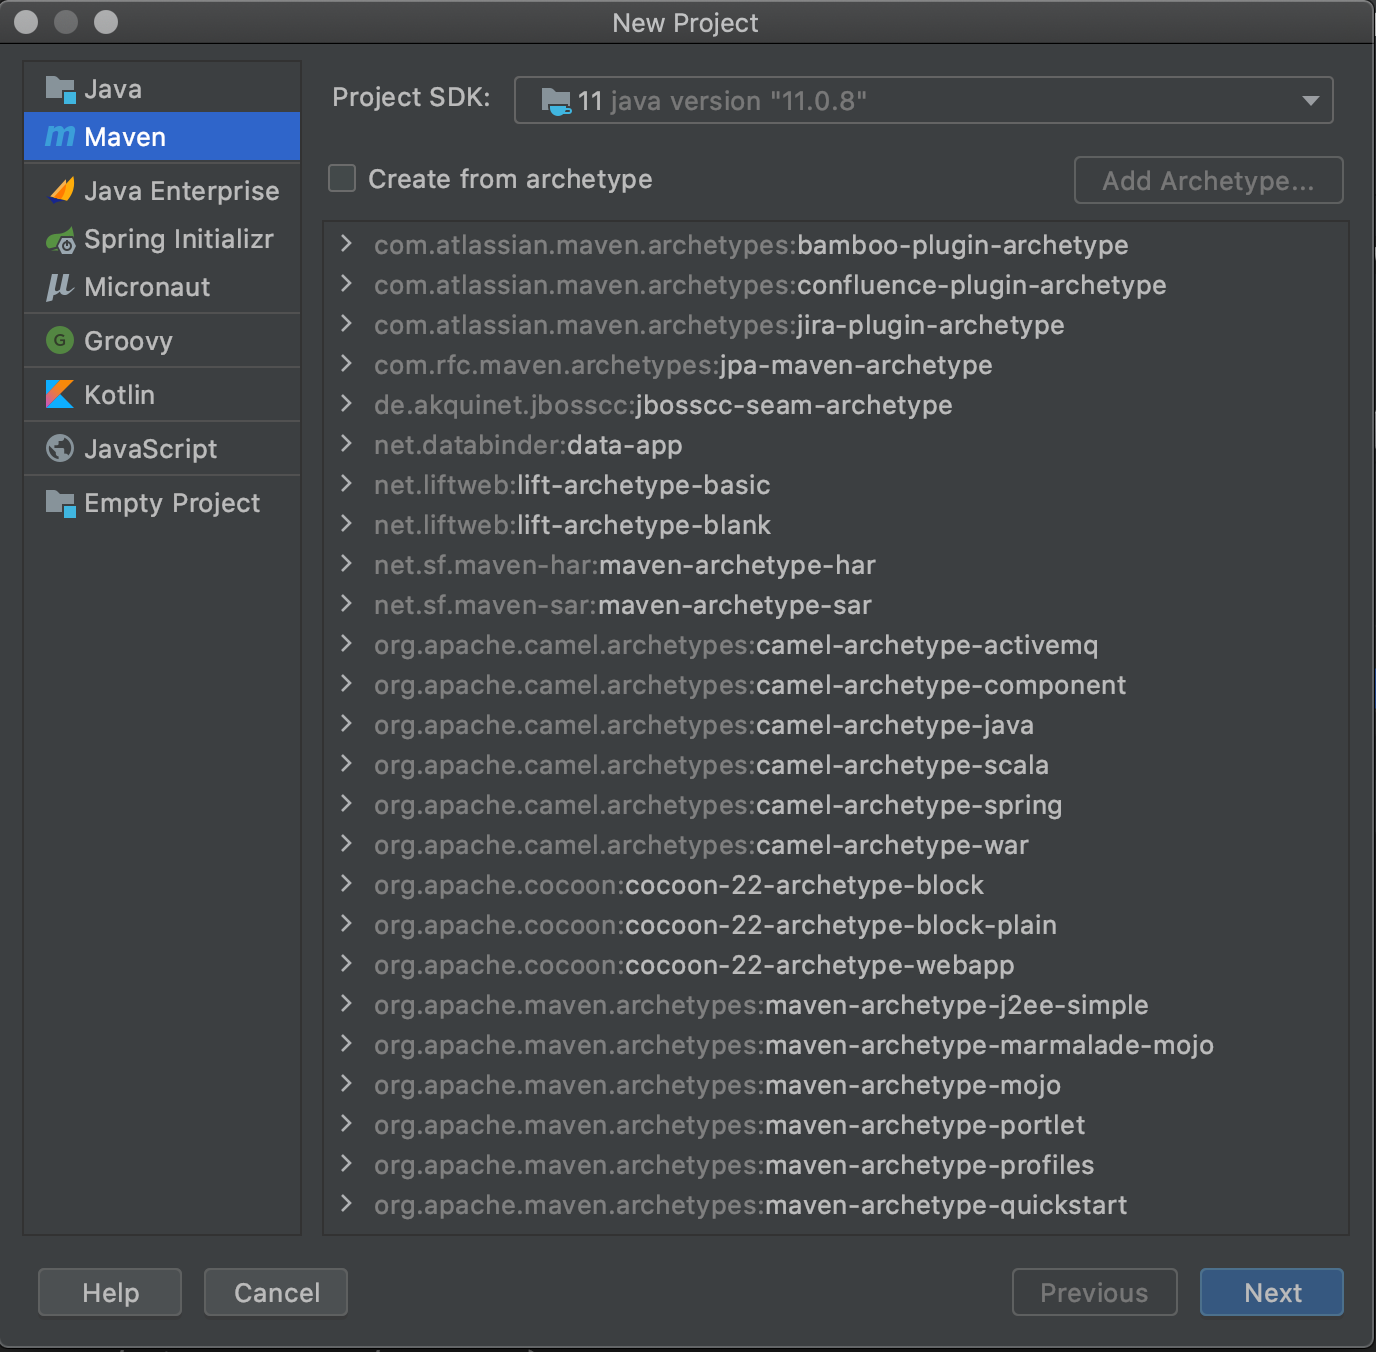
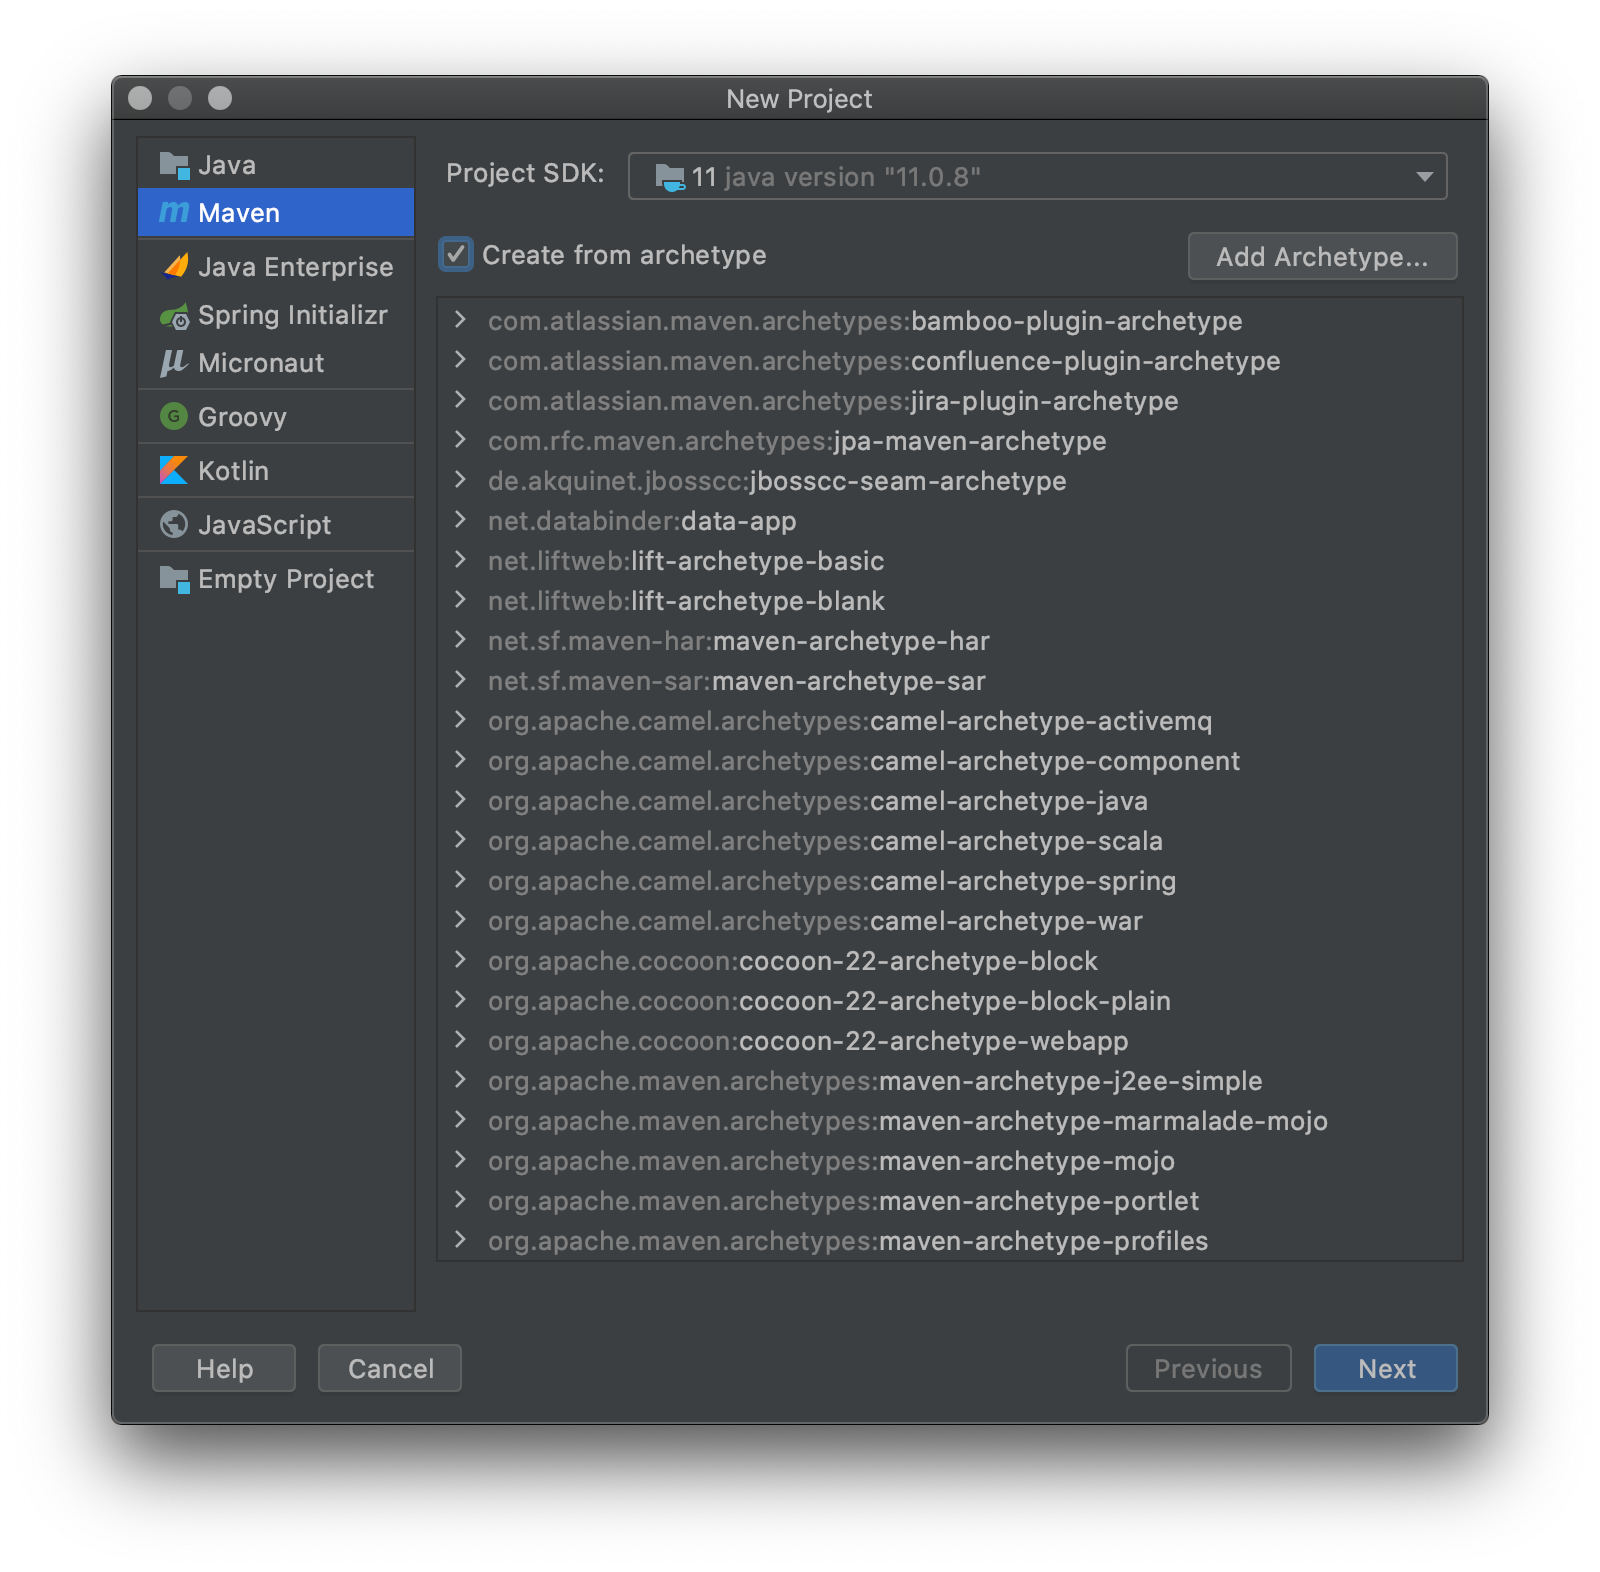
IKASAN-1851 - update developer guide docs for 3.1.x

diff --git a/ikasaneip/developer/docs/StandaloneDeveloperGuide.md b/ikasaneip/developer/docs/StandaloneDeveloperGuide.md
@@ -52,20 +52,38 @@ We will be using IntelliJ for the rest of this demonstration.
 ## Create a Project
 In IntelliJ select `File/New/Project...`
 
-Select maven (blank archetype). Ensure you select JDK 11 as the SDK for this new project.
+Ensure you select JDK 11 as the SDK for this new project.
+Select Maven, tick the checkbox "Create from archetype", then select "Add Archetype".
 ![Login](quickstart-images/IntelliJ-new-project-screen1.png) 
 
+Add the coordinates of the archetype to use, for this example we will use a vanilla Ikasan archetype
+based on Ikasan version 3.1.0. 
+If you are using a different version ensure you specify the correct Ikasan version.
+Select Ok.
+For instance, 
+- GroupId --> `org.ikasan`
+- ArtefactId --> `ikasan-standalone-vanilla-im-maven-plugin`
+- Version --> `3.1.0`
+![Login](quickstart-images/IntelliJ-new-vanilla-archetype-screen1.png) 
+
+Select Next.
+![Login](quickstart-images/IntelliJ-new-vanilla-archetype-screen2.png) 
+
+Select the directory/workspace to create this project and expand the Artefact Coordinates.
 Specify your project Maven coordinates such as GroupId, ArtefactId, and Version.
 
 For instance, 
 - GroupId --> `com.ikasan.example`
 - ArtefactId --> `MyIntegrationModule`
 - Version --> `1.0.0-SNAPSHOT`
-
-![Login](quickstart-images/IntelliJ-new-project-screen2.png) 
-
-Select the directory/workspace to create this project.
 ![Login](quickstart-images/IntelliJ-new-project-screen3.png) 
+Select Next.
+
+![Login](quickstart-images/IntelliJ-new-project-screen4.png) 
+
+Select Finish.
+
+From here the Maven archetype will be created.
 
 That's it! 
 
